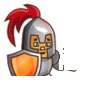
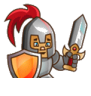
Fix knight assembly to keep uploaded body intact
Use the full knight picture as the torso (feet cleared only) with
animated legs and sword overlay so movement stays readable.

Changed region(s): [[0.6374, 0.125, 0.967, 0.75], [0.1099, 0.7812, 0.5934, 0.8125], [0.6374, 0.5312, 0.6593, 0.5625]]

diff --git a/src/entities/Player.ts b/src/entities/Player.ts
@@ -2,16 +2,15 @@ import Phaser from "phaser";
 import { loadMoveSpeed, runSpeedFor, walkSpeedFor } from "../settings";
 
 /**
- * Your knight picture as torso + animated legs + swinging sword (from your art).
+ * Your full knight picture as the body, with animated legs + sword overlay.
  */
 export class Player {
-  /** Physics body (invisible hitch for collisions / camera). */
   readonly sprite: Phaser.Physics.Arcade.Sprite;
 
   private readonly visual: Phaser.GameObjects.Container;
   private readonly leftLeg: Phaser.GameObjects.Image;
   private readonly rightLeg: Phaser.GameObjects.Image;
-  private readonly torso: Phaser.GameObjects.Image;
+  private readonly body: Phaser.GameObjects.Image;
   private readonly sword: Phaser.GameObjects.Image;
   private readonly shadow: Phaser.GameObjects.Ellipse;
 
@@ -25,7 +24,7 @@ export class Player {
   private shift: Phaser.Input.Keyboard.Key;
   private moveSpeedLevel: number;
   private walkPhase = 0;
-  private facing = 1; // 1 rightward visual (flipped), -1 = art native (faces left)
+  private facing = -1;
 
   constructor(scene: Phaser.Scene, x: number, y: number, moveSpeedLevel = loadMoveSpeed()) {
     this.moveSpeedLevel = moveSpeedLevel;
@@ -38,25 +37,25 @@ export class Player {
     this.sprite.setDepth(10);
     this.sprite.setMaxVelocity(320, 320);
 
-    this.shadow = scene.add.ellipse(0, 20, 30, 10, 0x000000, 0.25);
+    this.shadow = scene.add.ellipse(0, 22, 32, 10, 0x000000, 0.28);
 
-    // Art faces left; assembled facing preserved via container flip
-    this.torso = scene.add.image(0, -10, "knightTorso").setOrigin(0.5, 0.75);
-    this.torso.setDisplaySize(54, 46);
+    // Full knight art (feet cleared) — keeps your look intact
+    this.body = scene.add.image(0, -4, "knightTorso").setOrigin(0.5, 0.72);
+    this.body.setDisplaySize(56, 52);
 
-    // Legs render IN FRONT of torso so the stride is visible
-    this.leftLeg = scene.add.image(-7, 8, "knightLeg").setOrigin(0.5, 0);
-    this.rightLeg = scene.add.image(7, 8, "knightLeg").setOrigin(0.5, 0);
-    this.leftLeg.setDisplaySize(14, 20);
-    this.rightLeg.setDisplaySize(14, 20);
+    // Legs under the body, drawn on top of the lower edge so strides read
+    this.leftLeg = scene.add.image(-8, 12, "knightLeg").setOrigin(0.5, 0);
+    this.rightLeg = scene.add.image(8, 12, "knightLeg").setOrigin(0.5, 0);
+    this.leftLeg.setDisplaySize(13, 18);
+    this.rightLeg.setDisplaySize(13, 18);
 
-    // Sword pivot at the hilt — large swing, drawn on top
-    this.sword = scene.add.image(16, -4, "knightSword").setOrigin(0.35, 0.88);
-    this.sword.setDisplaySize(26, 46);
+    // Sword from your art — covers static sword and swings while walking
+    this.sword = scene.add.image(18, 0, "knightSword").setOrigin(0.3, 0.9);
+    this.sword.setDisplaySize(24, 44);
 
     this.visual = scene.add.container(x, y, [
       this.shadow,
-      this.torso,
+      this.body,
       this.leftLeg,
       this.rightLeg,
       this.sword,
@@ -107,7 +106,7 @@ export class Player {
       const len = Math.hypot(vx, vy);
       vx = (vx / len) * speed;
       vy = (vy / len) * speed;
-      this.walkPhase += delta * (running ? 0.038 : 0.028);
+      this.walkPhase += delta * (running ? 0.04 : 0.03);
     } else {
       this.walkPhase *= 0.82;
     }
@@ -115,7 +114,7 @@ export class Player {
     this.sprite.setVelocity(vx, vy);
     this.visual.setPosition(this.sprite.x, this.sprite.y);
 
-    // Art faces left natively. Flip container when moving right.
+    // Art faces left. Flip when moving right.
     if (vx > 0) this.facing = 1;
     else if (vx < 0) this.facing = -1;
     this.visual.setScale(this.facing, 1);
@@ -126,36 +125,33 @@ export class Player {
   private animate(moving: boolean, running: boolean): void {
     const swing = moving ? Math.sin(this.walkPhase) : 0;
     const swingOpp = moving ? Math.sin(this.walkPhase + Math.PI) : 0;
-    const bob = moving ? Math.abs(Math.sin(this.walkPhase * 2)) * (running ? 2.8 : 1.8) : 0;
+    const bob = moving ? Math.abs(Math.sin(this.walkPhase * 2)) * (running ? 2.5 : 1.6) : 0;
 
-    // --- Legs (big alternating stride) ---
-    const legDeg = running ? 48 : 36;
+    // Legs
+    const legDeg = running ? 42 : 32;
     this.leftLeg.setAngle(swing * legDeg);
     this.rightLeg.setAngle(swingOpp * legDeg);
-    this.leftLeg.y = 8 + (moving ? swingOpp * 3 : 0);
-    this.rightLeg.y = 8 + (moving ? swing * 3 : 0);
-    this.leftLeg.x = -7 + (moving ? swing * 2.5 : 0);
-    this.rightLeg.x = 7 + (moving ? swingOpp * 2.5 : 0);
+    this.leftLeg.setPosition(-8 + swing * 2, 12 + swingOpp * 2.5);
+    this.rightLeg.setPosition(8 + swingOpp * 2, 12 + swing * 2.5);
 
-    // --- Torso bob (your knight art) ---
-    this.torso.y = -10 - bob;
-    this.torso.setAngle(moving ? swing * 4 : 0);
+    // Body (your picture)
+    this.body.y = -4 - bob;
+    this.body.setAngle(moving ? swing * 3.5 : 0);
 
-    // --- Sword swing (your sword art) ---
-    const swordDeg = running ? 55 : 40;
-    this.sword.y = -4 - bob * 0.8;
-    this.sword.x = 16 + (moving ? swing * 3 : 0);
-    this.sword.setAngle((moving ? swingOpp * swordDeg : 0) + 8);
+    // Sword swing
+    const swordDeg = running ? 50 : 36;
+    this.sword.setPosition(18 + swing * 2.5, 0 - bob * 0.7);
+    this.sword.setAngle((moving ? swingOpp * swordDeg : 0) + 6);
 
     if (!moving) {
-      const breath = Math.sin(Date.now() / 500) * 0.5;
-      this.torso.y = -10 + breath;
-      this.sword.y = -4 + breath * 0.4;
-      this.leftLeg.setAngle(-4);
-      this.rightLeg.setAngle(4);
-      this.leftLeg.setPosition(-7, 8);
-      this.rightLeg.setPosition(7, 8);
-      this.sword.setAngle(8);
+      const breath = Math.sin(Date.now() / 480) * 0.45;
+      this.body.y = -4 + breath;
+      this.sword.y = breath * 0.35;
+      this.leftLeg.setAngle(-3);
+      this.rightLeg.setAngle(3);
+      this.leftLeg.setPosition(-8, 12);
+      this.rightLeg.setPosition(8, 12);
+      this.sword.setAngle(6);
     }
   }
 }
